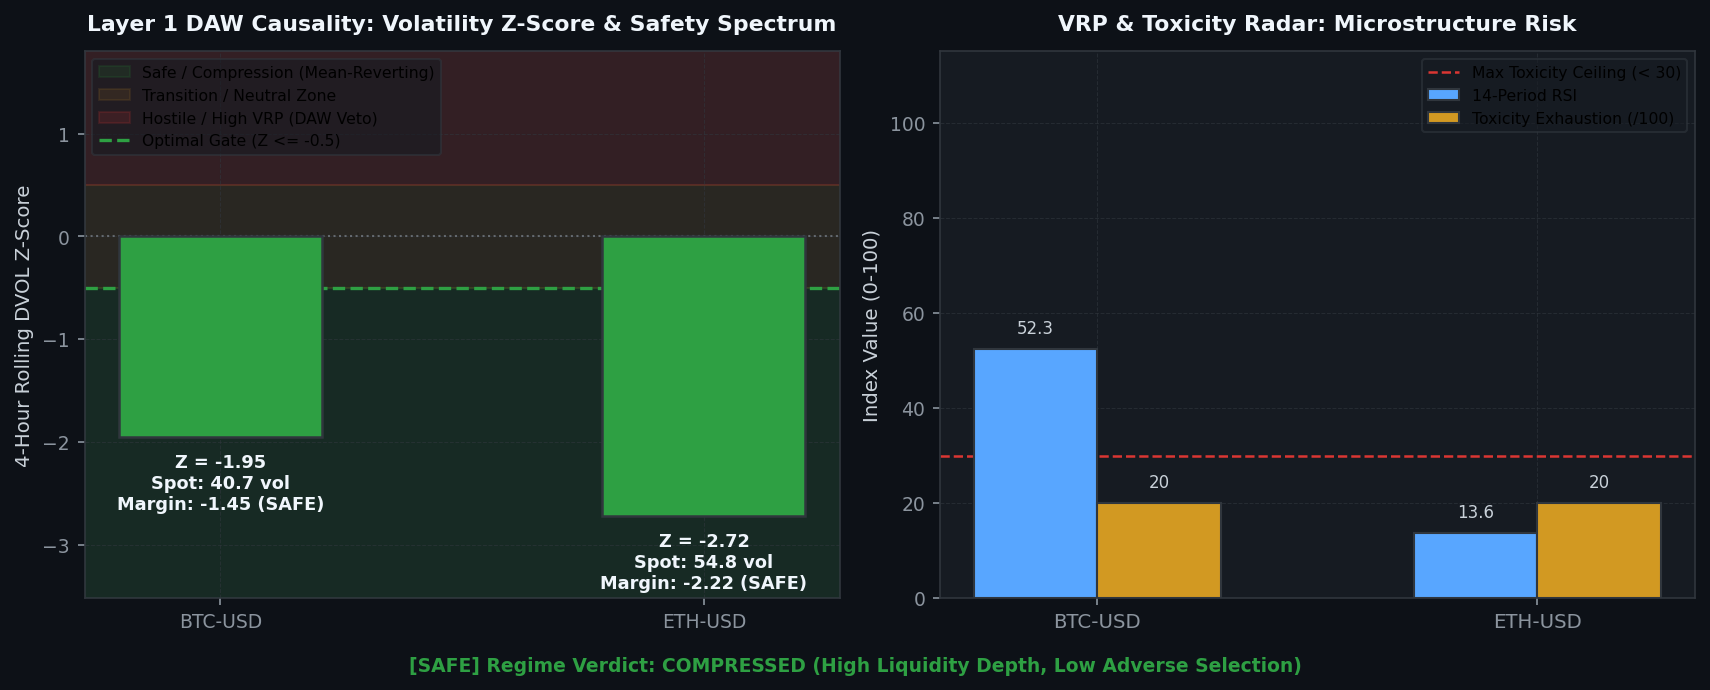
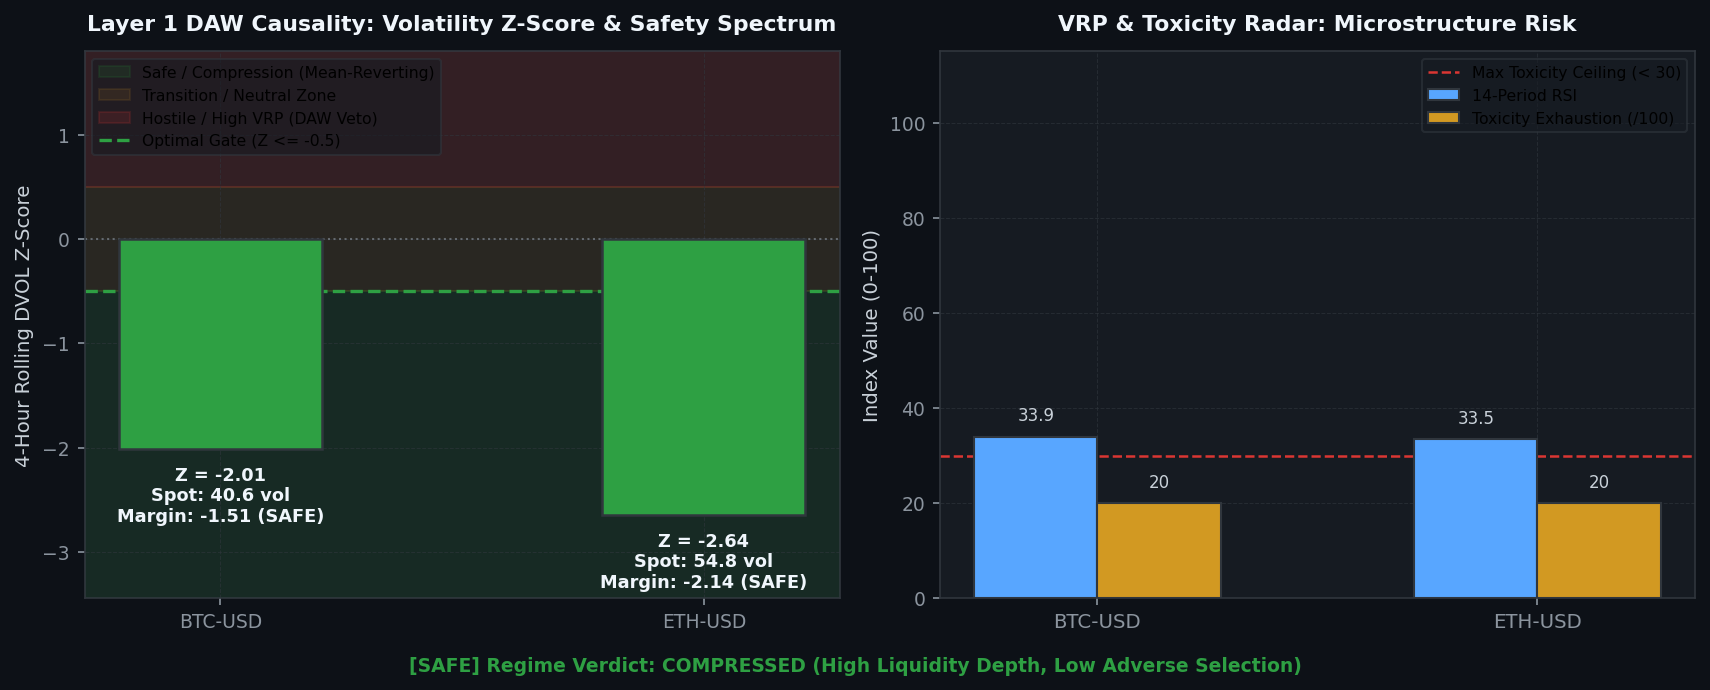
[coinbase] Hourly Status & Visual Intelligence Update: 2026-08-27 22:04:49

diff --git a/coinbase/data/hourly_status_report.md b/coinbase/data/hourly_status_report.md
@@ -3,7 +3,7 @@ layout: default
 ---
 
 # 🛡 Unified Trading System Hourly Status & Visual Intelligence
-> **Report Generated**: `2026-08-27 10:00:03 PM PDT (2026-08-28 05:00:03 UTC)`  
+> **Report Generated**: `2026-08-27 10:04:29 PM PDT (2026-08-28 05:04:29 UTC)`  
 > **System Health**: **🟡 DEGRADED / RESTRICTED** | **Win Rate**: `0.0%` | **Completed Trades**: `0`
 
 
@@ -15,13 +15,13 @@ Real-time Deribit implied volatility (DVOL) proxy tracking against mathematicall
 
 | Symbol | Proxy Oracle | Live Z-Score | Optimal Limit (YSP) | Safety Margin | Live VRP | Optimal VRP (YSP) | DAW Safety Verdict |
 | :--- | :--- | :--- | :--- | :--- | :--- | :--- | :--- |
-| `AVAX-USD` | DVOL_BTC | **-1.96** | **-0.50** | **-1.46** | **+7.68** | 5.0 | 🔴 DAW VETOED |
-| `ETH-USD` | DVOL_ETH | **-2.73** | **-0.50** | **-2.23** | **+21.54** | 5.0 | 🔴 DAW VETOED |
-| `ADA-USD` | DVOL_BTC | **-1.96** | **-0.50** | **-1.46** | **+7.60** | 5.0 | 🔴 DAW VETOED |
-| `DOGE-USD` | DVOL_BTC | **-1.96** | **-0.50** | **-1.46** | **+7.69** | 5.0 | 🔴 DAW VETOED |
-| `BTC-USD` | DVOL_BTC | **-1.96** | **-0.50** | **-1.46** | **+7.41** | 5.0 | 🔴 DAW VETOED |
-| `LINK-USD` | DVOL_BTC | **-1.96** | **-0.50** | **-1.46** | **+7.81** | 5.0 | 🔴 DAW VETOED |
-| `SOL-USD` | DVOL_BTC | **-1.96** | **-0.50** | **-1.46** | **+7.41** | 5.0 | 🔴 DAW VETOED |
+| `AVAX-USD` | DVOL_BTC | **-2.01** | **-0.50** | **-1.51** | **+7.68** | 5.0 | 🔴 DAW VETOED |
+| `ETH-USD` | DVOL_ETH | **-2.64** | **-0.50** | **-2.14** | **+22.54** | 5.0 | 🔴 DAW VETOED |
+| `ADA-USD` | DVOL_BTC | **-2.01** | **-0.50** | **-1.51** | **+7.60** | 5.0 | 🔴 DAW VETOED |
+| `DOGE-USD` | DVOL_BTC | **-2.01** | **-0.50** | **-1.51** | **+7.69** | 5.0 | 🔴 DAW VETOED |
+| `BTC-USD` | DVOL_BTC | **-2.01** | **-0.50** | **-1.51** | **+8.37** | 5.0 | 🔴 DAW VETOED |
+| `LINK-USD` | DVOL_BTC | **-2.01** | **-0.50** | **-1.51** | **+8.37** | 5.0 | 🔴 DAW VETOED |
+| `SOL-USD` | DVOL_BTC | **-2.01** | **-0.50** | **-1.51** | **+8.37** | 5.0 | 🔴 DAW VETOED |
 
 
 
@@ -37,16 +37,16 @@ We hereby certify that the mission-critical algorithmic data assets uploaded by 
 
 | Status | Data Asset | Freshness / State | Details / Timestamp |
 | :---: | :--- | :--- | :--- |
-| ✅ | **Go-List JSON** | Fresh (12.28h old) | 08-27 09:43 |
-| ✅ | **TimesFM Forecasts** | Fresh (1.14h old) | 08-27 20:51 |
-| ❌ | **Holding Times config** | STALE! (157.0h old) | Limit 99.0h |
-| ✅ | **BTC DVOL Cache** | Fresh (0.01h old) | 08-27 21:59 |
-| ✅ | **ETH DVOL Cache** | Fresh (0.01h old) | 08-27 21:59 |
-| ✅ | **Live Trading Telemetry** | Fresh (0.01h old) | 08-27 21:59 |
+| ✅ | **Go-List JSON** | Fresh (12.36h old) | 08-27 09:43 |
+| ✅ | **TimesFM Forecasts** | Fresh (1.22h old) | 08-27 20:51 |
+| ❌ | **Holding Times config** | STALE! (157.0h old) | Limit 99.1h |
+| ✅ | **BTC DVOL Cache** | Fresh (0.00h old) | 08-27 22:04 |
+| ✅ | **ETH DVOL Cache** | Fresh (0.00h old) | 08-27 22:04 |
+| ✅ | **Live Trading Telemetry** | Fresh (0.00h old) | 08-27 22:04 |
 
 <br>
 
-> **Utilization Certification**: ✅ **CERTIFIED.** The Guardian Watchdog is ONLINE and EC2 traders are actively querying the freshest MLOps data artifacts (Found 1599 recent read events).
+> **Utilization Certification**: ✅ **CERTIFIED.** The Guardian Watchdog is ONLINE and EC2 traders are actively querying the freshest MLOps data artifacts (Found 1594 recent read events).
 
 
 ---
@@ -55,7 +55,7 @@ Layer-by-layer tick evaluation waterfall and asset-specific performance tracking
 
 | Funnel Filter Layer | Total Rejections | % of Rejections |
 | :--- | :--- | :--- |
-| Tier 1: Macro Volatility Tensor Gate (Omega_macro) | `10,952` | **100.0%** |
+| Tier 1: Macro Volatility Tensor Gate (Omega_macro) | `10,994` | **100.0%** |
 | Tier 2: Unified Transport & Directional Engine | `0` | **0.0%** |
 | Tier 3: Continuous Hawkes-SFGK Pricer (HAS-Pricer) | `0` | **0.0%** |
 | System: Asset Cooldown Active | `0` | **0.0%** |
@@ -87,11 +87,11 @@ Live balance sheet and open maker liquidity positions from Coinbase CDP.
 | `DOGE-USD` | SELL | 0.088 | `18a7b5f1-e2eb-493b-b0f9-543f680a09d8` |
 | `ADA-USD` | SELL | 0.21047 | `9f624048-57c6-4571-862f-839e594d6477` |
 | `AVAX-USD` | SELL | 7.451 | `1ab3f04f-3f5a-4aae-a55b-8d5f040891ee` |
-| `USDT-USDC` | BUY | 0.9999 | `318ec420-6ed4-4a33-8975-903a0991ec61` |
-| `USDT-USDC` | BUY | 0.9999 | `83578311-d222-4810-8ddb-40c7e6bd1ba8` |
-| `USDT-USDC` | BUY | 0.9999 | `cab58853-ae88-4323-998b-31cdd8fb15e7` |
-| `USDT-USDC` | BUY | 0.9999 | `1e0f712b-b90d-4746-b99e-a4321e3c41d1` |
-| `USDT-USDC` | BUY | 0.9999 | `0594e8a3-2eb2-44c7-a281-44d0fc46728e` |
+| `USDT-USDC` | BUY | 0.9999 | `ea8a849d-0b07-427d-be5a-cd9b1f46a6ad` |
+| `USDT-USDC` | BUY | 0.9999 | `fd167296-6b30-46b1-b0cf-ba33ece45cd2` |
+| `USDT-USDC` | BUY | 0.9999 | `c138c35f-23d6-4117-b9e2-d7028c008579` |
+| `USDT-USDC` | BUY | 0.9999 | `b0247fbd-458e-4600-83fb-baf8058ef23a` |
+| `USDT-USDC` | BUY | 0.9999 | `c3bf4ba7-0fcb-4264-94e5-a92bfc331495` |
 
 
 
@@ -99,14 +99,14 @@ Live balance sheet and open maker liquidity positions from Coinbase CDP.
 ## 4. 🤖 Foundation Model MLOps & Pipeline Orchestration
 Weekly Algorithmic Mega Cap selection, Zero-shot multi-step forward return forecasts, and VSTEF parameter grid search status.
 
-- **TimesFM Forecast DB**: 🟢 Updated 1.1h ago (2026-08-27 08:51 PM PDT)
+- **TimesFM Forecast DB**: 🟢 Updated 1.2h ago (2026-08-27 08:51 PM PDT)
 - **Last Weekly VSTEF Optimization**: `2026-08-05 09:22:38 AM PDT`
-- **Next Scheduled VSTEF Run**: `2026-08-30 07:00:00 PM PDT (Monday 02:00 UTC)` (Countdown: **69.0h (2d 20h 59m)**)
+- **Next Scheduled VSTEF Run**: `2026-08-30 07:00:00 PM PDT (Monday 02:00 UTC)` (Countdown: **68.9h (2d 20h 55m)**)
 - **Promoted Parameter Gates**: $Z_{DVOL} \le -0.5$ | Holding Horizon $= 12\text{h}$
 
 ### Algorithmic Mega Cap Selection
 - **Last Run (Confirmation)**: `2026-08-27 09:43:18 AM PDT`
-- **Next Scheduled Run**: `2026-08-30 06:00:00 PM PDT (Monday 01:00 UTC)` (Countdown: **68.0h (2d 19h 59m)**)
+- **Next Scheduled Run**: `2026-08-30 06:00:00 PM PDT (Monday 01:00 UTC)` (Countdown: **67.9h (2d 19h 55m)**)
 - **Selected Mega Cap Universe**: `BTC, BCH, AVAX, ETH, ALGO, ADA, LTC, DOGE, AAVE, LINK, DOT, HBAR`
 
 
@@ -120,8 +120,8 @@ Visualizing the impact of the VSTEF (Volatility-Synchronized Stop-Tightening Exe
 ## 5. 🖥 Multi-Node Infrastructure & Watchdog Matrix
 ```text
 ================================================================================
-   🛡  SFGK FUNNEL GUARDIAN WATCHDOG (HFT ONLY) |  05:00:03 AM
-   CPU:  11.7%  |  MEM:   7.3% (14.3GB / 15.4GB Free)
+   🛡  SFGK FUNNEL GUARDIAN WATCHDOG (HFT ONLY) |  05:04:27 AM
+   CPU:   7.8%  |  MEM:   7.3% (14.3GB / 15.4GB Free)
 ================================================================================
 SERVICE              | PID      | STATUS          | RESTARTS | INFO
 --------------------------------------------------------------------------------
@@ -129,11 +129,11 @@ L3 Consumer          | 2348545  | RUNNING         | -        | Continuous Websoc
 MAO Daemon           | 2348640  | RUNNING         | -        | Oracle Yield Analysis
 U/U Farmer           | 2348642  | RUNNING         | -        | Volume Farmer
 Trader AVAX-USD      | 2381171  | RUNNING         | 38       | Evaluating Funnel/Polling Order
-Trader ETH-USD       | 2402578  | COOL-DOWN       | 151      | Next run in 3.9s
+Trader ETH-USD       | 2406672  | RUNNING         | 164      | Evaluating Funnel/Polling Order
 Trader ADA-USD       | 2381538  | RUNNING         | 73       | Evaluating Funnel/Polling Order
 Trader DOGE-USD      | 2380188  | RUNNING         | 62       | Evaluating Funnel/Polling Order
-Trader BTC-USD       | 2402760  | COOL-DOWN       | 186      | Next run in 14.7s
-Trader LINK-USD      | 2402773  | RUNNING         | 157      | Evaluating Funnel/Polling Order
+Trader BTC-USD       | 2406538  | COOL-DOWN       | 198      | Next run in 9.4s
+Trader LINK-USD      | 2406539  | COOL-DOWN       | 163      | Next run in 9.4s
 ```
 
 ---

diff --git a/coinbase/data/visual_intelligence.md b/coinbase/data/visual_intelligence.md
@@ -4,7 +4,7 @@ title: Visual Intelligence Gallery
 ---
 
 # 📈 Visual Intelligence Gallery
-> **Generated:** `2026-08-27 22:00:24`
+> **Generated:** `2026-08-27 22:04:49`
 > **[Return to Main Status Report](./hourly_status_report.md)**
 
 This page visualizes the internal states, market profiles, and decision criteria of the active **3-Tier Fused Decision Engine** across all layers.
